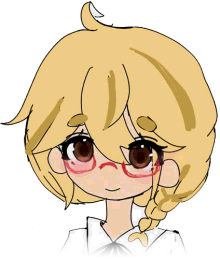
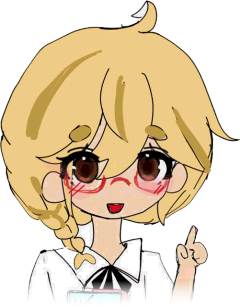
Doi sang ban nhan vat cam sach Hoa 11 va chi tay
- Tach nen anh moi: giu khoi lien mach lon nhat nen bong bong thoai trong
  va cac hoa tiet lap lanh ve kem tu bi loai, khong can xoa tay
- Cat duoi gau vay (y~975) roi mo dan; ban dau+vai lay den y 640 de con
  giu duoc ban tay dang chi len
- Tu 1536px phong nhan vat to them 20% (215 -> 258px) cho tuong xung voi
  le rong gan 300px
- Le trai rut tu 3 hinh xuong 2, xep so le: nhan vat moi cao hon nen
  cong thuc NH3 bi de sau chan vay o kho 1440

Da do lai: 1440 va 1920 deu 0 hinh de len nhan vat, 0 hinh de len nhau,
khong sinh thanh cuon ngang.

diff --git a/src/features/mascot/Mascot.tsx b/src/features/mascot/Mascot.tsx
@@ -99,8 +99,11 @@ export const MascotToanThan: React.FC<{ tab?: TabMascot; rong?: number }> = ({
   rong = 230,
 }) => {
   const loi = useMemo(() => dungLoiThoai(tab), [tab]);
+  /* Từ 1536px trở lên lề rộng ra gần 300px, để nguyên 215px thì nhân vật lọt
+     thỏm và chữ trên quyển sách bé tí. Phóng thêm 20% cho tương xứng. */
+  const beRong = { xs: rong, xl: Math.round(rong * 1.2) };
   return (
-    <Box sx={{ display: 'flex', flexDirection: 'column', alignItems: 'center', width: rong }}>
+    <Box sx={{ display: 'flex', flexDirection: 'column', alignItems: 'center', width: beRong }}>
       <Box sx={{ mb: 1.5 }}>
         <BongBong loi={loi} huong="duoi" />
       </Box>
@@ -113,8 +116,8 @@ export const MascotToanThan: React.FC<{ tab?: TabMascot; rong?: number }> = ({
            chỗ đứng bị trống một nhịp rồi ảnh mới nhảy vào. aspectRatio giữ sẵn
            đúng khoảng cho ảnh nên trang không bị xô lệch lúc tải. */
         sx={{
-          width: rong,
-          aspectRatio: '424 / 900',
+          width: beRong,
+          aspectRatio: '460 / 969',
           height: 'auto',
           display: 'block',
           ...NHIP_THO,
@@ -145,7 +148,7 @@ export const MascotDauVai: React.FC<{ tab: TabMascot; rong?: number }> = ({ tab,
         sx={{
           // Thu nhỏ trên điện thoại để còn chỗ cho bong bóng thoại bên cạnh.
           width: { xs: Math.round(rong * 0.8), sm: rong },
-          aspectRatio: '220 / 259',
+          aspectRatio: '240 / 307',
           height: 'auto',
           display: 'block',
           flexShrink: 0,

diff --git a/src/features/mascot/ChemDoodles.tsx b/src/features/mascot/ChemDoodles.tsx
@@ -28,10 +28,12 @@ interface ViTri {
 }
 
 const VI_TRI: ViTri[] = [
-  // ---- Lề trái: neo theo ĐÁY để luôn nằm dưới chân nhân vật ----
-  { ten: 'amoniac', bottom: '22%', left: '4%', rong: 132, xoay: -8 },
-  { ten: 'phanTuNuoc', bottom: '9%', left: '12%', rong: 108, xoay: 6, chiManHinhRong: true },
-  { ten: 'ongNghiem', bottom: '1%', left: '5%', rong: 46, xoay: -14 },
+  /* ---- Lề trái ----
+     Nhân vật chiếm gần hết lề trái từ trên xuống (ở 1440px cô ấy kéo tới
+     y≈660, chỉ chừa lại quãng 240px cuối). Nên chỉ đặt 2 hình, neo theo ĐÁY
+     và xếp so le nhau để vừa né chân váy vừa không đè lên nhau. */
+  { ten: 'amoniac', bottom: '12%', left: '2%', rong: 132, xoay: -8 },
+  { ten: 'ongNghiem', bottom: '3%', left: '16%', rong: 46, xoay: -14 },
 
   // ---- Lề phải: hai cột so le, cột trong chỉ hiện khi màn hình rộng ----
   { ten: 'benzen', top: '6%', right: '6%', rong: 86, xoay: 10 },
